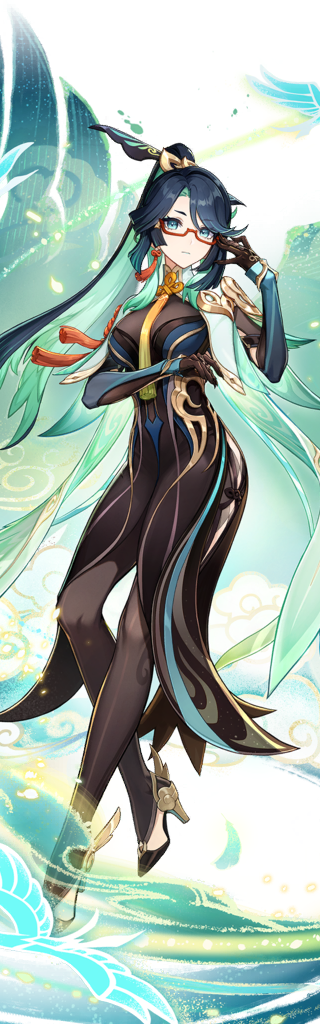
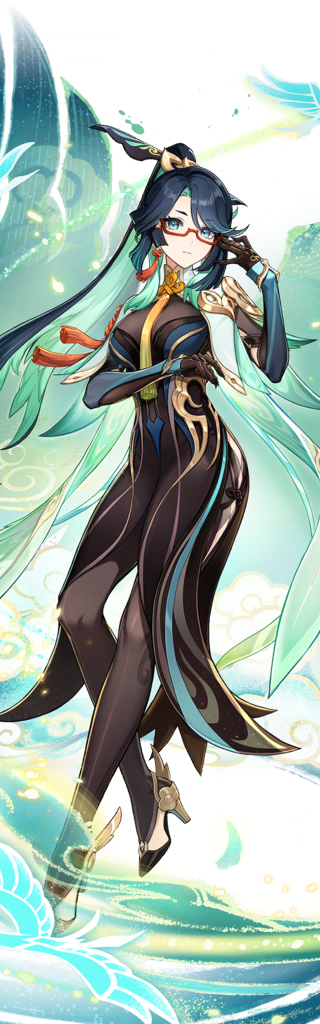
Genshin Impact v4.7

diff --git a/main.py b/main.py
@@ -1,11 +1,11 @@
 # Last Update -------------------
-# Genshin Impact: v4.6          |
+# Genshin Impact: v4.7          |
 # Star Rail: v2.3               |
 
 import utils
 
-update_genshin = False
-update_starrail = True
+update_genshin = True
+update_starrail = False
 
 if update_genshin:
     utils.update_genshin()

diff --git a/README.md b/README.md
@@ -2,7 +2,7 @@
 A repository for storing and accessing art from HoYoverse games, Genshin Impact and Honkai: Star Rail, with the use of raw.githubusercontent. This is free for anyone to use and all art belongs to HoYoverse. Use Enka.Network API to obtain character IDs.
 
 # Version
-<p>Genshin Impact - v4.6<br>Honkai: Star Rail - v2.3</p>
+<p>Genshin Impact - v4.7<br>Honkai: Star Rail - v2.3</p>
 
 # Example
 Genshin Impact using JavaScript:
